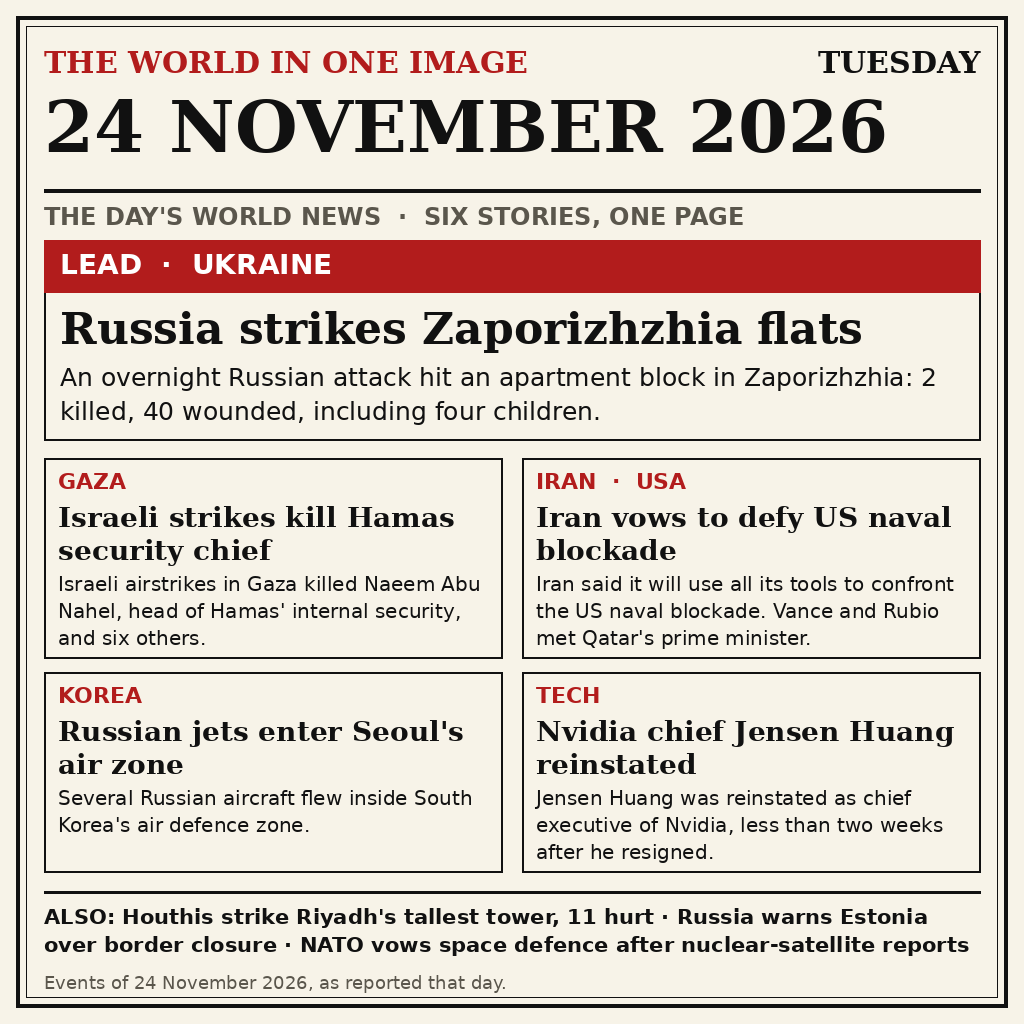
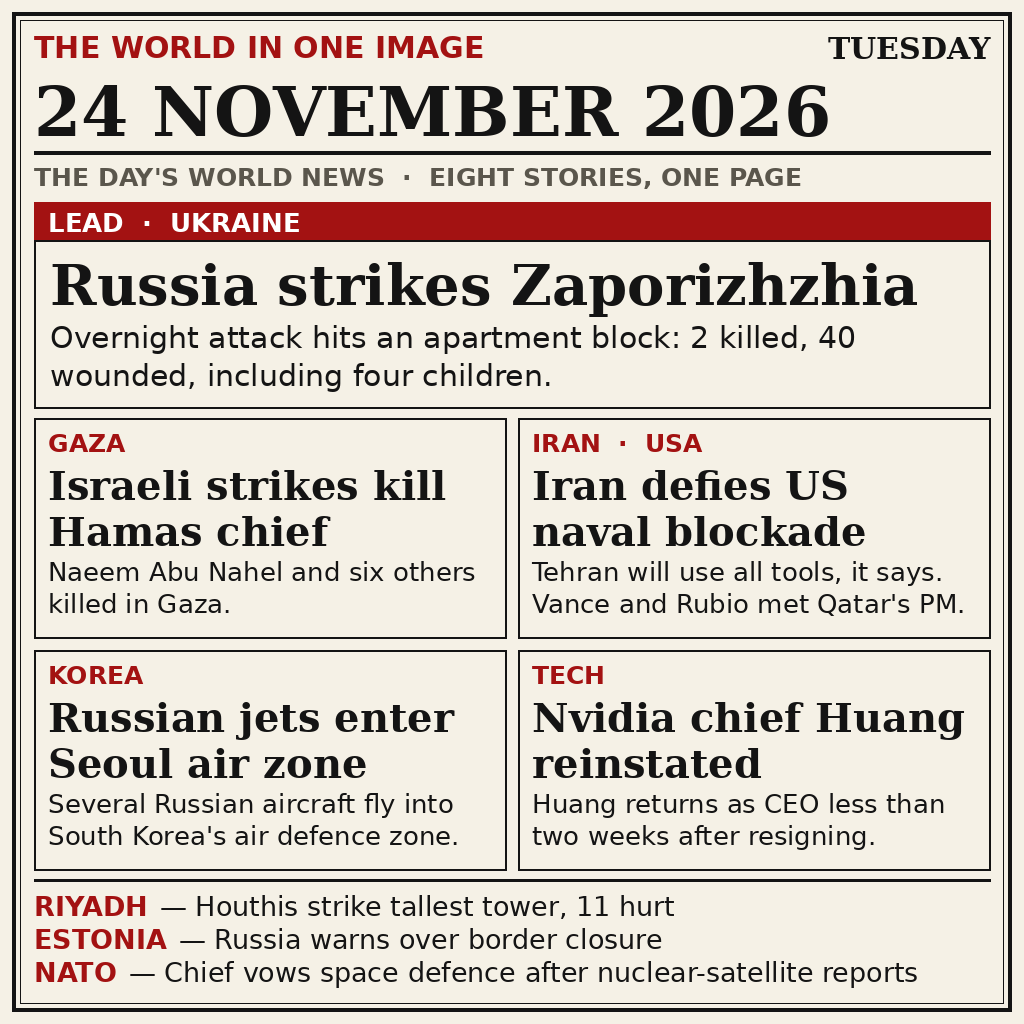
Add files via upload

diff --git a/main.ts b/main.ts
@@ -1,18 +1,29 @@
-// news-image-20261124 entry (Node 22, standard library only).
-// The image is the entry.png beside this file: a newspaper front page
-// summing up Tuesday 24 November 2026, drawn from that day's reporting:
-// the Russian strike on Zaporizhzhia, Israeli strikes in Gaza, Iran and
-// the US naval blockade, Russian aircraft in South Korea's air defence
-// zone, and Jensen Huang's reinstatement as Nvidia CEO.
-// The program copies it to /output/entry.png, deterministically:
-// the same bytes in, the same bytes out, on every run. The image
-// names its day in large type, so the judge can tell at a glance
-// that it sums up 24 November 2026 and no other day.
+// Entry for "Sum up 24 November's world news in one image" (make.fun).
 //
-// Outside the grader's container, MAKEFUN_OUTPUT_DIR stands in for /output:
+// The entry is a newspaper front page, entry.png, drawn from the
+// reporting of Tuesday 24 November 2026 and baked into this repository:
+// the Russian strike on Zaporizhzhia, Israeli strikes in Gaza, Iran
+// and the US naval blockade, Russian jets in South Korea's air
+// defence zone, Jensen Huang's return as Nvidia CEO, and the Houthi
+// strike on Riyadh's tallest tower, plus Russia's warning to Estonia
+// and NATO's space-defence vow.
+//
+// The program needs no network. It simply places the finished image
+// where the grader expects it, so running it twice always writes
+// exactly the same bytes.
+//
+// Local run:
 //   mkdir -p out && MAKEFUN_OUTPUT_DIR=out node main.ts
 
-import { copyFileSync } from 'node:fs';
-import { join } from 'node:path';
+import { mkdirSync, readFileSync, writeFileSync } from 'node:fs';
+import { dirname, join } from 'node:path';
+import { fileURLToPath } from 'node:url';
 
-copyFileSync(new URL('./entry.png', import.meta.url), join(process.env.MAKEFUN_OUTPUT_DIR ?? '/output', 'entry.png'));
+const here = dirname(fileURLToPath(import.meta.url));
+const outDir = process.env.MAKEFUN_OUTPUT_DIR ?? '/output';
+
+mkdirSync(outDir, { recursive: true });
+writeFileSync(
+  join(outDir, 'entry.png'),
+  readFileSync(join(here, 'entry.png')),
+);

diff --git a/README.md b/README.md
@@ -1,24 +1,27 @@
-# Sum up 24 November's world news in one image
+# 24 November 2026 in one image
 
 [![make.fun](https://make.fun/badge/news-image-20261124.svg)](https://make.fun/bounty/news-image-20261124)
 [![rank](https://make.fun/badge/news-image-20261124/qyhchy999-jpg/news-image-20261124/rank.svg)](https://make.fun/bounty/news-image-20261124)
 [![reward](https://make.fun/badge/news-image-20261124/qyhchy999-jpg/news-image-20261124/reward.svg)](https://make.fun/bounty/news-image-20261124)
 
-A newspaper front page summing up the world news of Tuesday 24 November 2026 in one image.
+One newspaper front page for Tuesday 24 November 2026 — eight stories from that day's reporting, set out so the page still reads at a glance:
 
-The front page leads with the overnight Russian strike on an apartment block in Zaporizhzhia, and carries four more stories: Israeli strikes in Gaza that killed Hamas security chief Naeem Abu Nahel, Iran's vow to defy the US naval blockade, Russian aircraft entering South Korea's air defence zone, and Jensen Huang's reinstatement as Nvidia CEO. A strip along the bottom adds the Houthi strike on Riyadh's tallest tower, Russia's warning to Estonia, and NATO's space-defence vow.
+- **Lead, Ukraine:** Russia strikes Zaporizhzhia — an overnight attack on an apartment block, 2 killed and 40 wounded, including four children.
+- **Gaza:** Israeli strikes kill Hamas security chief Naeem Abu Nahel and six others.
+- **Iran · USA:** Iran defies the US naval blockade; Vance and Rubio met Qatar's prime minister.
+- **Korea:** Russian jets enter Seoul's air zone.
+- **Tech:** Nvidia chief Jensen Huang reinstated, less than two weeks after resigning.
+- **Also:** Houthis strike Riyadh's tallest tower (11 hurt); Russia warns Estonia over its border closure; NATO's chief vows space defence after reports of Russian nuclear satellites.
 
-## Entry
+## How it runs
 
-`main.ts` (Node 22, standard library only) copies `entry.png` to `/output/entry.png`. The image is drawn from the day's reporting and baked into the repository, so the program runs with no network and writes identical bytes on every run.
+`main.ts` (Node 22, standard library only) writes the finished `entry.png` to `/output/entry.png`. The image is part of the repository, the program fetches nothing, and every run writes identical bytes.
 
-Run it locally:
+Try it locally:
 
 ```sh
 mkdir -p out && MAKEFUN_OUTPUT_DIR=out node main.ts
 ```
-
-Then check the output is a whole PNG, at most 1024 by 1024 pixels and at most 1 MiB, and run it twice to confirm both runs write the same bytes.
 
 ## License
 
